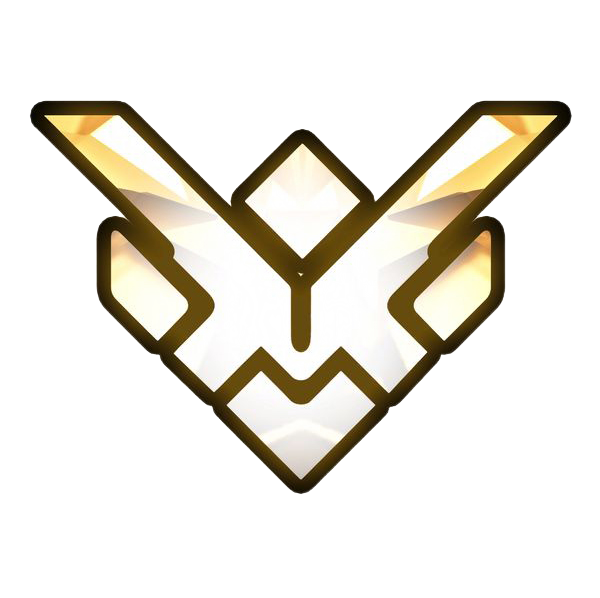
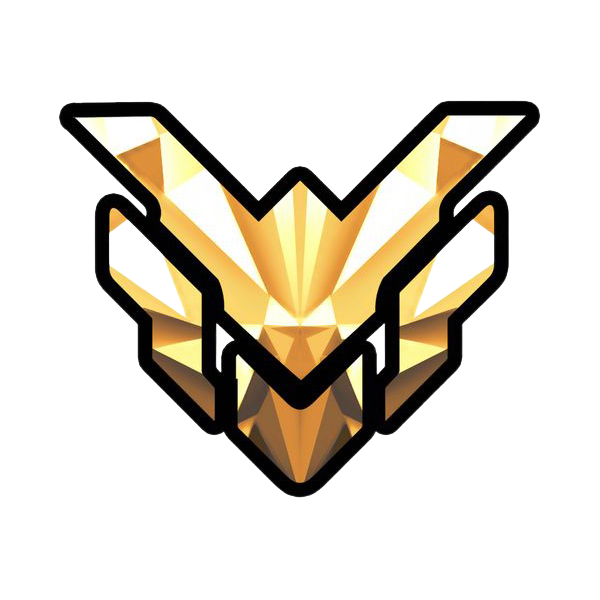
Add files via upload

diff --git a/app.js b/app.js
@@ -1,6 +1,6 @@
 const $=(s,p=document)=>p.querySelector(s), $$=(s,p=document)=>[...p.querySelectorAll(s)];
 const KEY='yimu-focus-v1';
-const CURRENT_VERSION='7.1';
+const CURRENT_VERSION='7.2';
 const UPDATE_PROMPT_KEY=`${KEY}-last-update-prompt`;
 const INSTALLED_VERSION_KEY=`${KEY}-installed-version`;
 const SUPABASE_URL='https://qscxabuyhmkwmytawsjw.supabase.co';
@@ -92,7 +92,7 @@ const renderDailyRankBase=renderDailyRank;renderDailyRank=function(){renderDaily
 function rankBadgeSvg(rank,index,hero=false){const symbols=['Ⅲ','Ⅱ','Ⅰ','◆','✦','♛','★'];return`<svg class="rank-badge-svg${hero?' hero':''}" viewBox="0 0 120 120" role="img" aria-label="${rank.name}段位图标" style="color:${rank.tone}"><path class="badge-wings" d="M8 54 38 28l12 13 10-24 10 24 12-13 30 26-25 8-8 31-19 15-19-15-8-31z"/><path class="badge-core" d="m60 30 27 23-7 36-20 16-20-16-7-36z"/><path class="badge-ring" d="m60 39 18 16-5 29-13 11-13-11-5-29z"/><text x="60" y="72" text-anchor="middle">${symbols[index]}</text></svg>`}
 rankBadgeSvg=function(rank,index,hero=false){const symbols=['Ⅲ','Ⅱ','Ⅰ','◆','✦','♛','★'],silhouettes=['M26 26h68l-7 55-27 25-27-25z','M20 29h80l-8 55-32 24-32-24z','M15 37 29 20h62l14 17-13 52-32 21-32-21z','M13 31 32 16h56l19 15-14 59-33 22-33-22z','M5 45 31 19l17 14 12-24 12 24 17-14 26 26-23 12-8 36-24 19-24-19-8-36z','M3 43 28 17l20 15L60 5l12 27 20-15 25 26-25 14-7 38-25 18-25-18-7-38z','M2 42 23 19l17 8L60 3l20 24 17-8 21 23-18 14 10 15-24 9-5 20-21 15-21-15-5-20-24-9 10-15z'],core=['M39 38h42l-5 37-16 17-16-17z','M35 38h50l-6 40-19 16-19-16z','M34 40h52l-8 40-18 15-18-15z','M31 37h58l-9 45-20 15-20-15z','M31 39h58l-10 44-19 15-19-15z','M29 38h62l-10 47-21 15-21-15z','M27 36h66l-10 50-23 17-23-17z'];return`<svg class="rank-badge-svg rank-style-${index}${hero?' hero':''}" viewBox="0 0 120 120" role="img" aria-label="${rank.name}段位图标" style="color:${rank.tone}"><path class="badge-silhouette" d="${silhouettes[index]}"/><path class="badge-core" d="${core[index]}"/><path class="badge-highlight" d="M42 43h36l-5 30-13 12-13-12z"/><text x="60" y="70" text-anchor="middle">${symbols[index]}</text>${index>=4?'<path class="badge-star" d="m60 42 5 10 11 2-8 8 2 11-10-5-10 5 2-11-8-8 11-2z"/>':''}</svg>`};
 rankBadgeSvg=function(rank,index,hero=false){const shapes=['M16 34 60 72 104 34 101 59 60 98 19 59Z','M13 27 60 64 107 27 101 57 76 77 76 94 60 108 44 94 44 77 19 57Z','M10 24 38 45 60 22 82 45 110 24 101 61 78 78 73 101 60 112 47 101 42 78 19 61Z','M8 26 34 43 60 17 86 43 112 26 103 62 82 77 78 99 60 113 42 99 38 77 17 62Z','M5 31 31 45 43 23 60 42 77 23 89 45 115 31 105 67 83 78 75 106 60 115 45 106 37 78 15 67Z','M4 27 29 40 40 18 60 38 80 18 91 40 116 27 107 61 89 72 82 99 60 115 38 99 31 72 13 61Z','M3 23 27 36 37 13 60 35 83 13 93 36 117 23 110 57 95 68 88 94 73 104 60 117 47 104 32 94 25 68 10 57Z'],insets=['M31 45 60 70 89 45 85 57 60 82 35 57Z','M30 43 60 67 90 43 85 59 69 72 69 88 60 96 51 88 51 72 35 59Z','M28 47 43 57 60 40 77 57 92 47 86 65 70 77 66 94 60 100 54 94 50 77 34 65Z','M27 47 42 57 60 38 78 57 93 47 87 66 72 77 68 94 60 102 52 94 48 77 33 66Z','M24 51 42 61 49 45 60 57 71 45 78 61 96 51 88 70 70 79 66 96 60 102 54 96 50 79 32 70Z','M23 47 41 56 48 39 60 52 72 39 79 56 97 47 90 67 74 76 68 96 60 103 52 96 46 76 30 67Z','M22 43 40 52 46 34 60 48 74 34 80 52 98 43 92 64 76 73 70 93 60 104 50 93 44 73 28 64Z'];return`<svg class="rank-badge-svg angular-rank angular-rank-${index}${hero?' hero':''}" viewBox="0 0 120 120" role="img" aria-label="${rank.name}段位图标" style="color:${rank.tone}"><path class="angular-main" d="${shapes[index]}"/><path class="angular-inset" d="${insets[index]}"/><path class="angular-glint" d="M24 36 43 48 60 31 77 48 96 36 91 45 78 57 60 43 42 57 29 45Z"/></svg>`};
-const RANK_IMAGE_PATHS=['./rank-01.png','./rank-02.png','./rank-03.png','./rank-04.png','./rank-05.png','./rank-06.png','./rank-07.png'],rankImageCache=RANK_IMAGE_PATHS.map(src=>{const image=new Image();image.decoding='async';image.src=src;return image});
+const RANK_IMAGE_PATHS=['./rank-01.png?v=7.2','./rank-02.png?v=7.2','./rank-03.png?v=7.2','./rank-04.png?v=7.2','./rank-05.png?v=7.2','./rank-06.png?v=7.2','./rank-07.png?v=7.2'],rankImageCache=RANK_IMAGE_PATHS.map(src=>{const image=new Image();image.decoding='async';image.src=src;return image});
 function ensureRankImage(index){const image=rankImageCache[index];if(image.complete&&image.naturalWidth)return Promise.resolve(image);return new Promise(resolve=>{image.addEventListener('load',()=>resolve(image),{once:true});image.addEventListener('error',()=>resolve(null),{once:true})})}
 rankBadgeSvg=function(rank,index,hero=false){return`<img class="rank-badge-image${hero?' hero':''}" src="${RANK_IMAGE_PATHS[index]}" alt="${rank.name}段位标志" draggable="false">`};
 const renderDailyRankIconBase=renderDailyRank;renderDailyRank=function(){renderDailyRankIconBase();const todayMinutes=Math.round(state.records.filter(item=>dateKey(item.end)===dateKey(new Date())).reduce((sum,item)=>sum+item.duration,0)/60000),index=Math.max(0,RANKS.findLastIndex(rank=>todayMinutes>=rank.min));$('#rank-icon').innerHTML=rankBadgeSvg(RANKS[index],index,true);$$('#rank-ladder>div').forEach((row,rankIndex)=>{const holder=row.querySelector('i');if(holder)holder.innerHTML=rankBadgeSvg(RANKS[rankIndex],rankIndex)})};renderForest=renderDailyRank;

diff --git a/sw.js b/sw.js
@@ -1,4 +1,4 @@
-const CACHE='focus-rise-v7.1';
+const CACHE='focus-rise-v7.2';
 const ASSETS=['./','./index.html','./styles.css','./theme-gold.css','./app.js','./supabase.min.js','./manifest.webmanifest','./icon.svg','./apple-touch-icon-v44.png','./icon-v44-192.png','./icon-v44-512.png','./rank-01.png','./rank-02.png','./rank-03.png','./rank-04.png','./rank-05.png','./rank-06.png','./rank-07.png'];
 self.addEventListener('install',event=>event.waitUntil(caches.open(CACHE).then(cache=>cache.addAll(ASSETS))));
 self.addEventListener('message',event=>{if(event.data&&event.data.type==='SKIP_WAITING')self.skipWaiting()});

diff --git a/index.html b/index.html
@@ -81,6 +81,6 @@
   <iframe name="feedback-submit-frame" id="feedback-submit-frame" class="hidden" title="反馈提交"></iframe>
   <div class="toast" id="toast"></div>
 <script src="supabase.min.js?v=5.0"></script>
-<script src="app.js?v=7.1"></script>
+<script src="app.js?v=7.2"></script>
 </body>
 </html>
